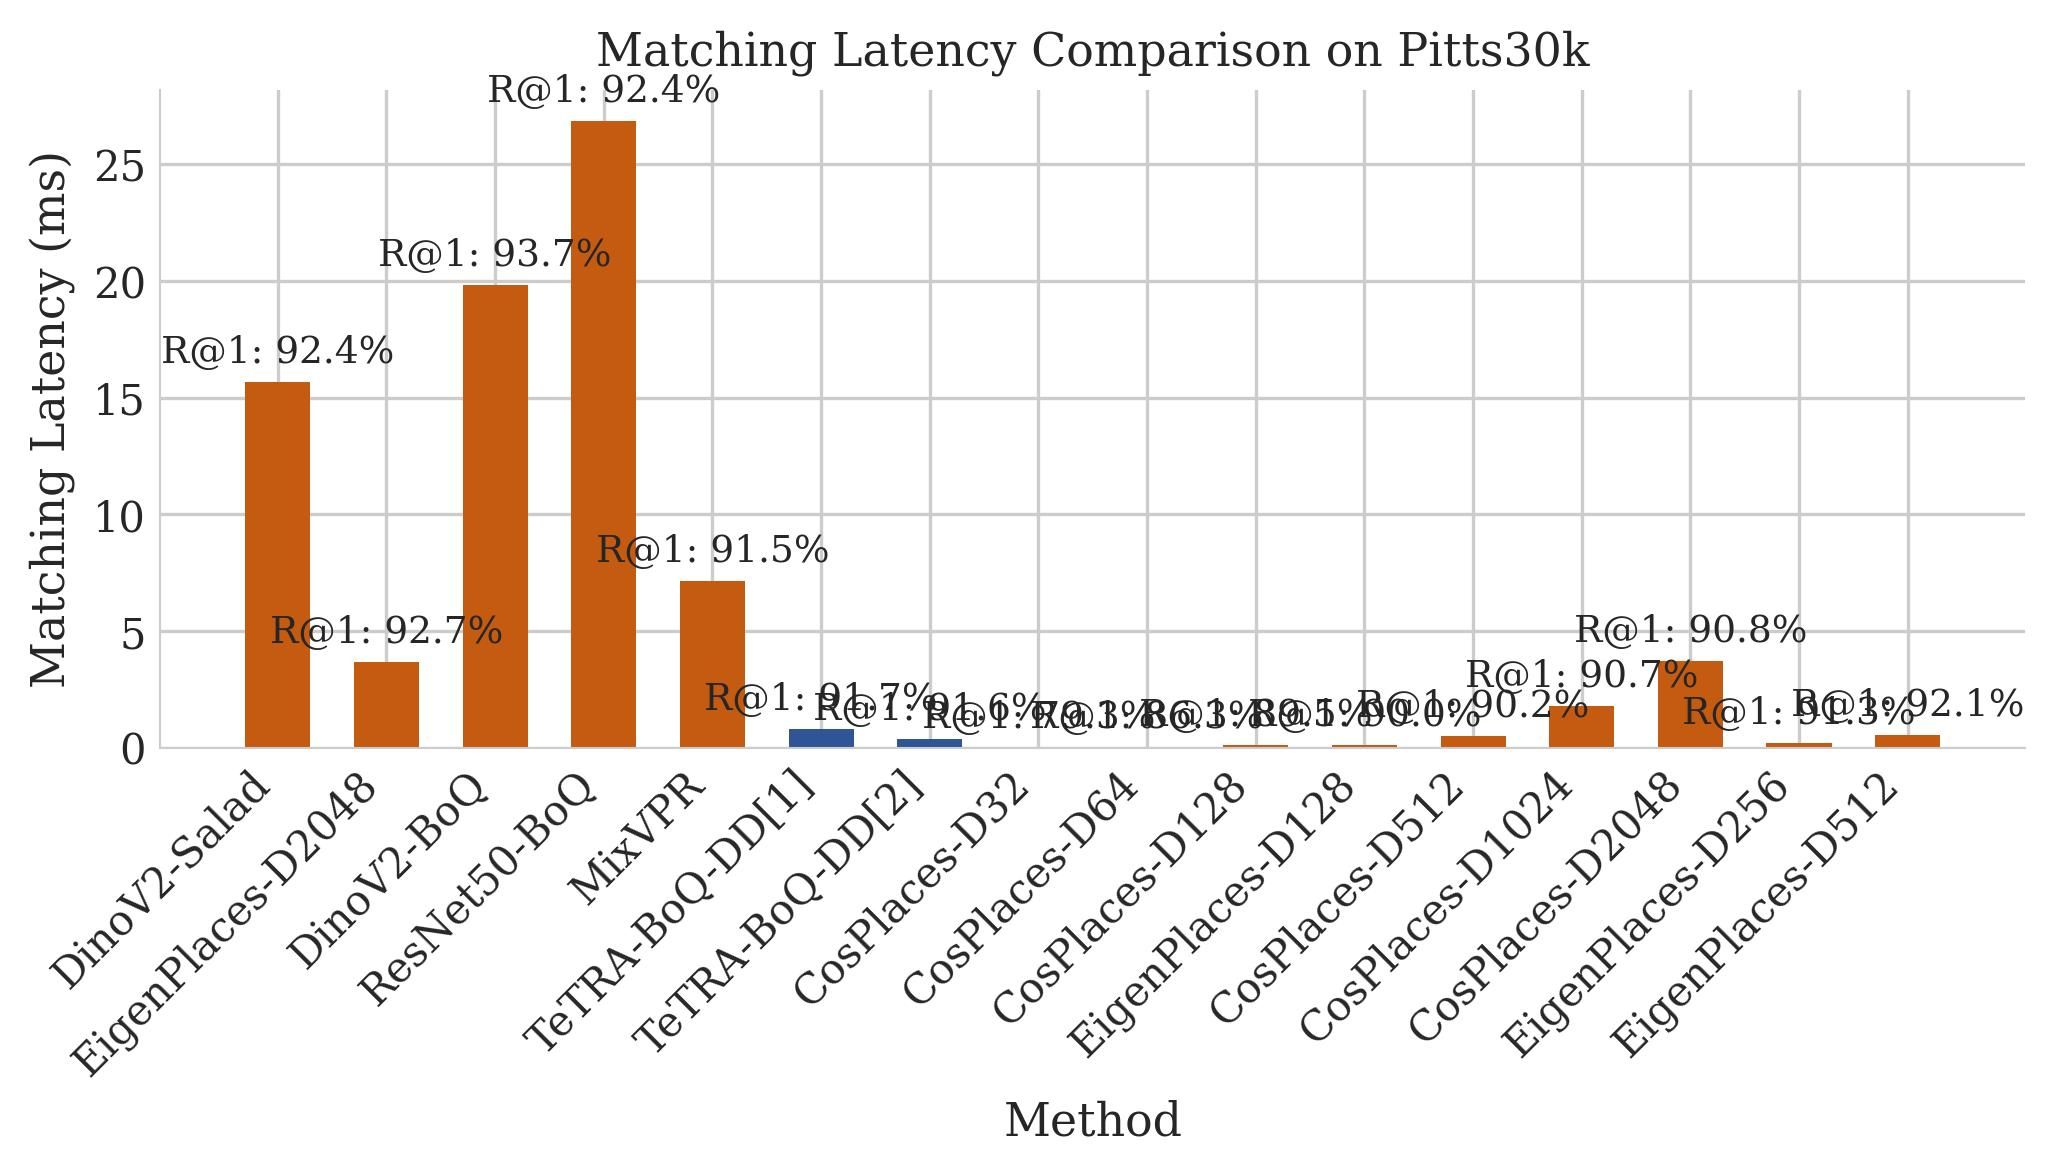
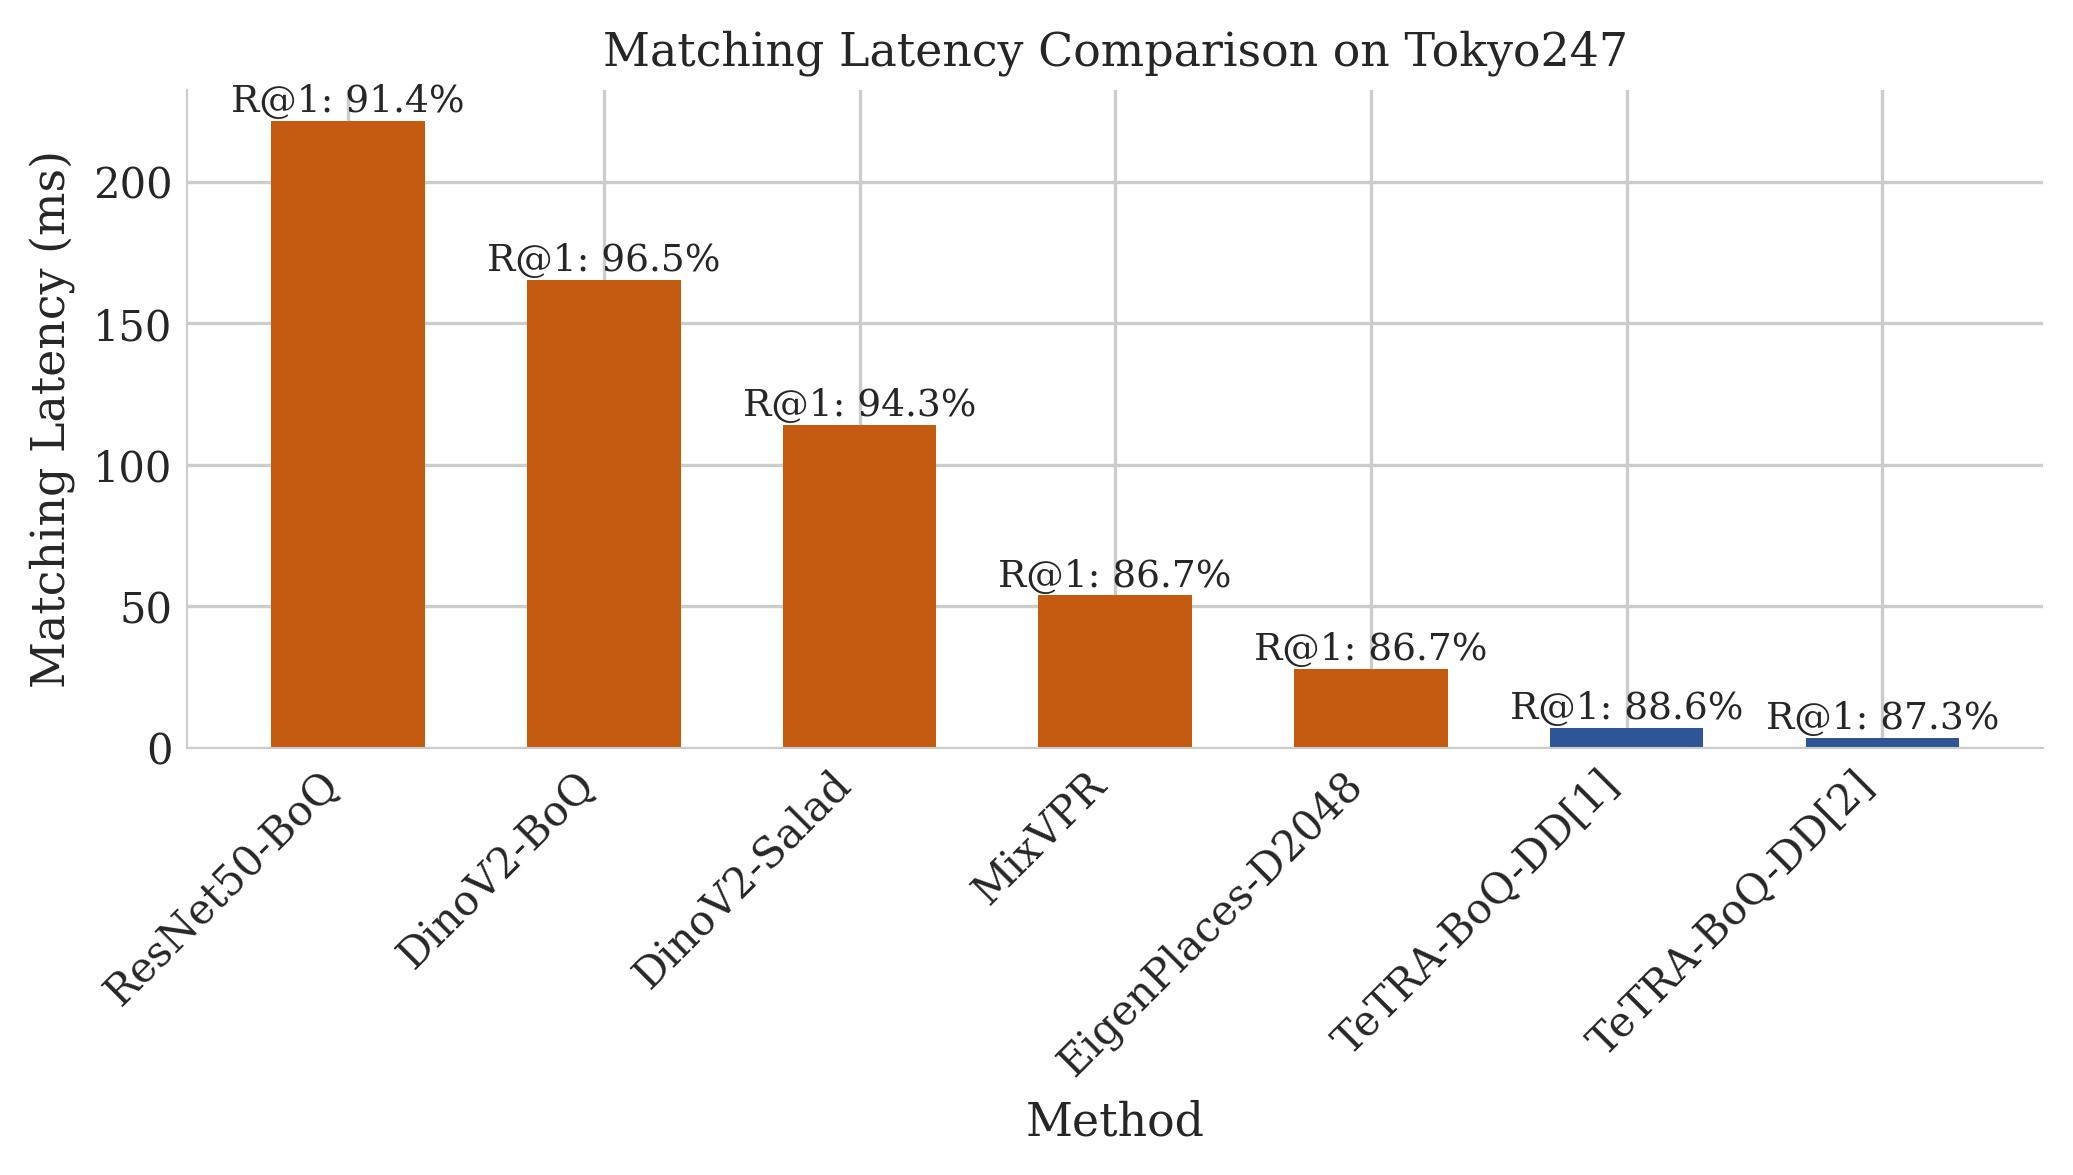
adidng code

diff --git a/data/fig2.py b/data/fig2.py
@@ -1,8 +1,7 @@
 import matplotlib.pyplot as plt
-import numpy as np
 import pandas as pd
+import numpy as np
 import os 
-
 
 # --- Unified Style for IROS ---
 plt.style.use("seaborn-v0_8-whitegrid")
@@ -14,56 +13,127 @@ plt.rcParams.update(
         "axes.titlesize": 11,
         "xtick.labelsize": 10,
         "ytick.labelsize": 10,
-        "text.usetex": False,
+        "text.usetex": False,  # Disable LaTeX rendering if not needed
     }
 )
 
-DATASET = "Pitts30k"
+DATASET = "Tokyo247"
 df = pd.read_csv("results.csv")
 df = df[df["Dataset"] == DATASET].copy()
 
-# Define colors
-tetra_color = "#2F5597"  # Dark blue for TeTRA
-other_color = "#C55A11"  # Dark orange for other methods
+# Define a consistent color for the scatter points
+scatter_color = "#2F5597"  # Dark blue
 
-# Assign color based on method name
-colors = [tetra_color if "TeTRA" in method else other_color for method in df["Method"]]
+# Define markers and colors for specific models
+model_styles = {
+    'CosPlaces': {'marker': 's', 'label': 'CosPlaces', 'color': '#2F5597'},  # Dark blue square
+    'TeTRA': {'marker': '^', 'label': 'TeTRA', 'color': '#C00000'},          # Red triangle
+    'EigenPlaces': {'marker': 'D', 'label': 'EigenPlaces', 'color': '#548235'}, # Green diamond
+    'DinoV2': {'marker': 'P', 'label': 'DinoV2', 'color': '#7030A0'}             # Purple plus
+    
+}
 
-# Create figure
-plt.figure(figsize=(7, 4))
+# Create the figure with two subplots sharing y-axis
+fig, (ax1, ax2) = plt.subplots(1, 2, sharey=True, gridspec_kw={'width_ratios': [3, 1]}, figsize=(7, 4))
+fig.subplots_adjust(wspace=0.05)  # Reduce space between subplots
 
-# Plot bar chart
-bars = plt.bar(df["Method"], df["Matching Latency (ms)"], color=colors, width=0.6)
+# Create scatter plots by model type
+for idx, row in df.iterrows():
+    if "GeM" in row['Method'] or "MixVPR" == row['Method'] or "ResNet50-BoQ" in row['Method']:
+        continue
+    
+    # Determine which axis to use based on latency value
+    latency = row["Matching Latency (ms)"]
+    ax = ax1 if latency <= 35 else ax2
+    
+    if any(model in row['Method'] for model in ['CosPlaces', 'EigenPlaces', 'TeTRA', 'DinoV2']):
+        for model, style in model_styles.items():
+            if model in row['Method']:
+                print(row["Method"])
+                ax.scatter(
+                    latency,
+                    row["Accuracy (R@1)"],
+                    alpha=0.8,
+                    s=100,
+                    c=style['color'],
+                    marker=style['marker'],
+                    edgecolor='white',
+                    linewidth=1,
+                    label=style['label']
+                )
+                break
+    else:
+        print("=====", row["Method"])
+        ax.scatter(
+            latency,
+            row["Accuracy (R@1)"],
+            alpha=0.8,
+            s=100,
+            c='#808080',  # Gray color for other methods
+            marker='o',
+            edgecolor='white',
+            linewidth=1,
+            label=row['Method']  # Use the actual method name as label
+        )
 
-# Axis labels and title
-plt.ylabel("Matching Latency (ms)")
-plt.xlabel("Method")
-plt.title(f"Matching Latency Comparison on {DATASET}")
+# Set the limits for each axis
+ax1.set_xlim(-2, 35)
+ax2.set_xlim(75, 200)
 
-# Rotate x-labels for readability
-plt.xticks(rotation=45, ha="right")
+# Add broken axis indicators
+d = .015  # size of diagonal lines
+kwargs = dict(transform=ax1.transAxes, color='k', clip_on=False)
+ax1.plot((1-d,1+d), (-d,+d), **kwargs)
+ax1.plot((1-d,1+d), (1-d,1+d), **kwargs)
 
-# Annotate bars with Accuracy (R@1)
-for i, bar in enumerate(bars):
-    height = bar.get_height()
-    plt.text(
-        bar.get_x() + bar.get_width() / 2.0,
-        height + 0.5,
-        f'R@1: {df["Accuracy (R@1)"].iloc[i]:.1f}%',
-        ha="center",
-        va="bottom",
-        fontsize=9,
-    )
+kwargs.update(transform=ax2.transAxes)
+ax2.plot((-d,+d), (-d,+d), **kwargs)
+ax2.plot((-d,+d), (1-d,1+d), **kwargs)
 
-# Customize spines
-ax = plt.gca()
-ax.spines["top"].set_visible(False)
-ax.spines["right"].set_visible(False)
-ax.spines["left"].set_linewidth(0.5)
-ax.spines["bottom"].set_linewidth(0.5)
+# Customize both axes
+for ax in [ax1, ax2]:
+    ax.spines["top"].set_visible(False)
+    ax.spines["right"].set_visible(False)
+    ax.spines["left"].set_linewidth(0.5)
+    ax.spines["bottom"].set_linewidth(0.5)
+    ax.grid(True, alpha=0.3)
+    ax.set_xlabel("")  # Remove individual x-labels
 
-# Adjust layout and save
+# Add labels and title
+ax1.set_ylabel("Accuracy R@1 (%)")
+ax1.set_xlabel("")  # Remove individual x-label
+ax2.set_xlabel("")  # Remove individual x-label
+plt.suptitle(f"{DATASET} R@1 vs. Matching Latency", y=0.98)
+
+# Add a single x-label with the same style as y-label (moved up slightly)
+fig.text(0.5, 0.04, "Matching Latency (ms)", ha='center', va='center', fontsize=11, fontfamily='serif')
+
+# Add legend to the first axis only (with duplicate labels removed)
+handles, labels = ax1.get_legend_handles_labels()
+handles2, labels2 = ax2.get_legend_handles_labels()
+all_handles = handles + handles2
+all_labels = labels + labels2
+by_label = dict(zip(all_labels, all_handles))
+ax1.legend(by_label.values(), by_label.keys(), 
+          loc='lower right', 
+          fontsize=8, 
+          frameon=True)
+
+# First adjust the main layout
 plt.tight_layout()
+
+# Then adjust the bottom spacing for the x-label while preserving the top spacing
+plt.subplots_adjust(bottom=0.15, top=0.92)
+
+# After layout adjustment, add the broken axis indicators again
+kwargs = dict(transform=ax1.transAxes, color='k', clip_on=False)
+ax1.plot((1-d,1+d), (-d,+d), **kwargs)
+ax1.plot((1-d,1+d), (1-d,1+d), **kwargs)
+
+kwargs.update(transform=ax2.transAxes)
+ax2.plot((-d,+d), (-d,+d), **kwargs)
+ax2.plot((-d,+d), (1-d,1+d), **kwargs)
+
 os.makedirs("figures", exist_ok=True)
-plt.savefig("figures/bar_matching_latency.jpg", dpi=300, bbox_inches='tight')
+plt.savefig("figures/scatter_performance_vs_latency.jpg", dpi=300, bbox_inches='tight')
 plt.show()

diff --git a/data/fig1.py b/data/fig1.py
@@ -29,22 +29,31 @@ model_styles = {
     'CosPlaces': {'marker': 's', 'label': 'CosPlaces', 'color': '#2F5597'},  # Dark blue square
     'TeTRA': {'marker': '^', 'label': 'TeTRA', 'color': '#C00000'},          # Red triangle
     'EigenPlaces': {'marker': 'D', 'label': 'EigenPlaces', 'color': '#548235'}, # Green diamond
-    'DINO': {'marker': 'P', 'label': 'DINO', 'color': '#7030A0'}             # Purple plus
+    'DinoV2': {'marker': 'P', 'label': 'DinoV2', 'color': '#7030A0'}             # Purple plus
 }
 
 # Default style for other models
 default_style = {'marker': 'o', 'label': 'Other Models', 'color': '#808080'}  # Gray
 
-# Create the figure
-plt.figure(figsize=(7, 4))
+# Create the figure with two subplots sharing y-axis
+fig, (ax1, ax2) = plt.subplots(1, 2, sharey=True, gridspec_kw={'width_ratios': [3, 1]}, figsize=(7, 4))
+fig.subplots_adjust(wspace=0.05)  # Reduce space between subplots
 
 # Create scatter plots by model type
 for idx, row in df.iterrows():
-    if any(model in row['Method'] for model in ['CosPlaces', 'EigenPlaces', 'TeTRA', 'DINO']):
+    # Skip methods containing "GeM"
+    if "GeM" in row['Method'] or "ResNet50-BoQ" in row['Method'] or "MixVPR" in row['Method']:
+        continue
+    
+    # Determine which axis to use based on memory value
+    memory = row["DB Memory (MB)"]
+    ax = ax1 if memory <= 150 else ax2
+    
+    if any(model in row['Method'] for model in ['CosPlaces', 'EigenPlaces', 'TeTRA', 'DinoV2']):
         for model, style in model_styles.items():
             if model in row['Method']:
-                plt.scatter(
-                    row["DB Memory (MB)"],
+                ax.scatter(
+                    memory,
                     row["Accuracy (R@1)"],
                     alpha=0.8,
                     s=100,
@@ -56,40 +65,72 @@ for idx, row in df.iterrows():
                 )
                 break
     else:
-        plt.scatter(
-            row["DB Memory (MB)"],
+        ax.scatter(
+            memory,
             row["Accuracy (R@1)"],
             alpha=0.8,
             s=100,
-            c=default_style['color'],
-            marker=default_style['marker'],
+            c='#808080',  # Gray color for other methods
+            marker='o',
             edgecolor='white',
             linewidth=1,
-            label=default_style['label']
+            label='Other Models'
         )
 
-# Add legend (with duplicate labels removed)
-handles, labels = plt.gca().get_legend_handles_labels()
-by_label = dict(zip(labels, handles))
-plt.legend(by_label.values(), by_label.keys(), 
-          loc='best', 
+# Set the limits for each axis
+ax1.set_xlim(-10, 200)
+ax2.set_xlim(3500, 5000)
+
+# Add broken axis indicators
+d = .015  # size of diagonal lines
+kwargs = dict(transform=ax1.transAxes, color='k', clip_on=False)
+ax1.plot((1-d,1+d), (-d,+d), **kwargs)
+ax1.plot((1-d,1+d), (1-d,1+d), **kwargs)
+
+kwargs.update(transform=ax2.transAxes)
+ax2.plot((-d,+d), (-d,+d), **kwargs)
+ax2.plot((-d,+d), (1-d,1+d), **kwargs)
+
+# Customize both axes
+for ax in [ax1, ax2]:
+    ax.spines["top"].set_visible(False)
+    ax.spines["right"].set_visible(False)
+    ax.spines["left"].set_linewidth(0.5)
+    ax.spines["bottom"].set_linewidth(0.5)
+    ax.grid(True, alpha=0.3)
+    ax.set_xlabel("")
+
+# Add labels and title
+ax1.set_ylabel("Accuracy R@1 (%)")
+plt.suptitle(f"{DATASET} R@1 vs. Database Memory", y=0.98)
+
+# Add a single x-label
+fig.text(0.5, 0.04, "Database Memory (MB)", ha='center', va='center', fontsize=11, fontfamily='serif')
+
+# Add legend to the first axis only (with duplicate labels removed)
+handles, labels = ax1.get_legend_handles_labels()
+handles2, labels2 = ax2.get_legend_handles_labels()
+all_handles = handles + handles2
+all_labels = labels + labels2
+by_label = dict(zip(all_labels, all_handles))
+ax1.legend(by_label.values(), by_label.keys(), 
+          loc='lower right', 
           fontsize=8, 
           frameon=True)
 
-# Axis labels and title
-plt.xlabel("Database Memory (MB)")
-plt.ylabel("Accuracy R@1 (%)")
-plt.title(f"Model Performance vs. Database Memory Usage on {DATASET}")
-
-# Customize spines
-ax = plt.gca()
-ax.spines["top"].set_visible(False)
-ax.spines["right"].set_visible(False)
-ax.spines["left"].set_linewidth(0.5)
-ax.spines["bottom"].set_linewidth(0.5)
-
-# Adjust layout and save
+# Adjust layout
 plt.tight_layout()
+plt.subplots_adjust(bottom=0.15, top=0.92)
+
+# Redraw broken axis indicators after layout adjustment
+kwargs = dict(transform=ax1.transAxes, color='k', clip_on=False)
+ax1.plot((1-d,1+d), (-d,+d), **kwargs)
+ax1.plot((1-d,1+d), (1-d,1+d), **kwargs)
+
+kwargs.update(transform=ax2.transAxes)
+ax2.plot((-d,+d), (-d,+d), **kwargs)
+ax2.plot((-d,+d), (1-d,1+d), **kwargs)
+
 os.makedirs("figures", exist_ok=True)
 plt.savefig("figures/scatter_performance_vs_db_memory.jpg", dpi=300, bbox_inches='tight')
 plt.show()

diff --git a/data/fig3.py b/data/fig3.py
@@ -3,6 +3,7 @@ import numpy as np
 import pandas as pd
 import os 
 
+
 # --- Unified Style for IROS ---
 plt.style.use("seaborn-v0_8-whitegrid")
 plt.rcParams.update(
@@ -17,9 +18,27 @@ plt.rcParams.update(
     }
 )
 
-DATASET = "Pitts30k"
+DATASET = "Tokyo247"
+# Define methods to include in the plot
+METHODS_TO_INCLUDE = [
+    "ResNet50-BoQ",
+    "DinoV2-BoQ",
+    "DinoV2-Salad",
+    "MixVPR", 
+    "EigenPlaces-D2048",
+    "TeTRA-BoQ-DD[1]",
+    "TeTRA-BoQ-DD[2]",
+]
+
 df = pd.read_csv("results.csv")
 df = df[df["Dataset"] == DATASET].copy()
+# Filter dataframe to only include selected methods
+df = df[df["Method"].isin(METHODS_TO_INCLUDE)]
+
+# Set the Method column as categorical with the desired order
+df["Method"] = pd.Categorical(df["Method"], categories=METHODS_TO_INCLUDE, ordered=True)
+# Sort the dataframe based on the categorical order
+df = df.sort_values("Method")
 
 # Define colors
 tetra_color = "#2F5597"  # Dark blue for TeTRA
@@ -32,12 +51,12 @@ colors = [tetra_color if "TeTRA" in method else other_color for method in df["Me
 plt.figure(figsize=(7, 4))
 
 # Plot bar chart
-bars = plt.bar(df["Method"], df["DB Memory (MB)"], color=colors, width=0.6)
+bars = plt.bar(df["Method"], df["Matching Latency (ms)"], color=colors, width=0.6)
 
 # Axis labels and title
-plt.ylabel("Database Memory (MB)")
+plt.ylabel("Matching Latency (ms)")
 plt.xlabel("Method")
-plt.title(f"Memory Consumption Comparison on {DATASET}")
+plt.title(f"Matching Latency Comparison on {DATASET}")
 
 # Rotate x-labels for readability
 plt.xticks(rotation=45, ha="right")
@@ -64,5 +83,5 @@ ax.spines["bottom"].set_linewidth(0.5)
 # Adjust layout and save
 plt.tight_layout()
 os.makedirs("figures", exist_ok=True)
-plt.savefig("figures/bar_memory_consumption.jpg", dpi=300, bbox_inches='tight')
+plt.savefig("figures/bar_matching_latency.jpg", dpi=300, bbox_inches='tight')
 plt.show()
